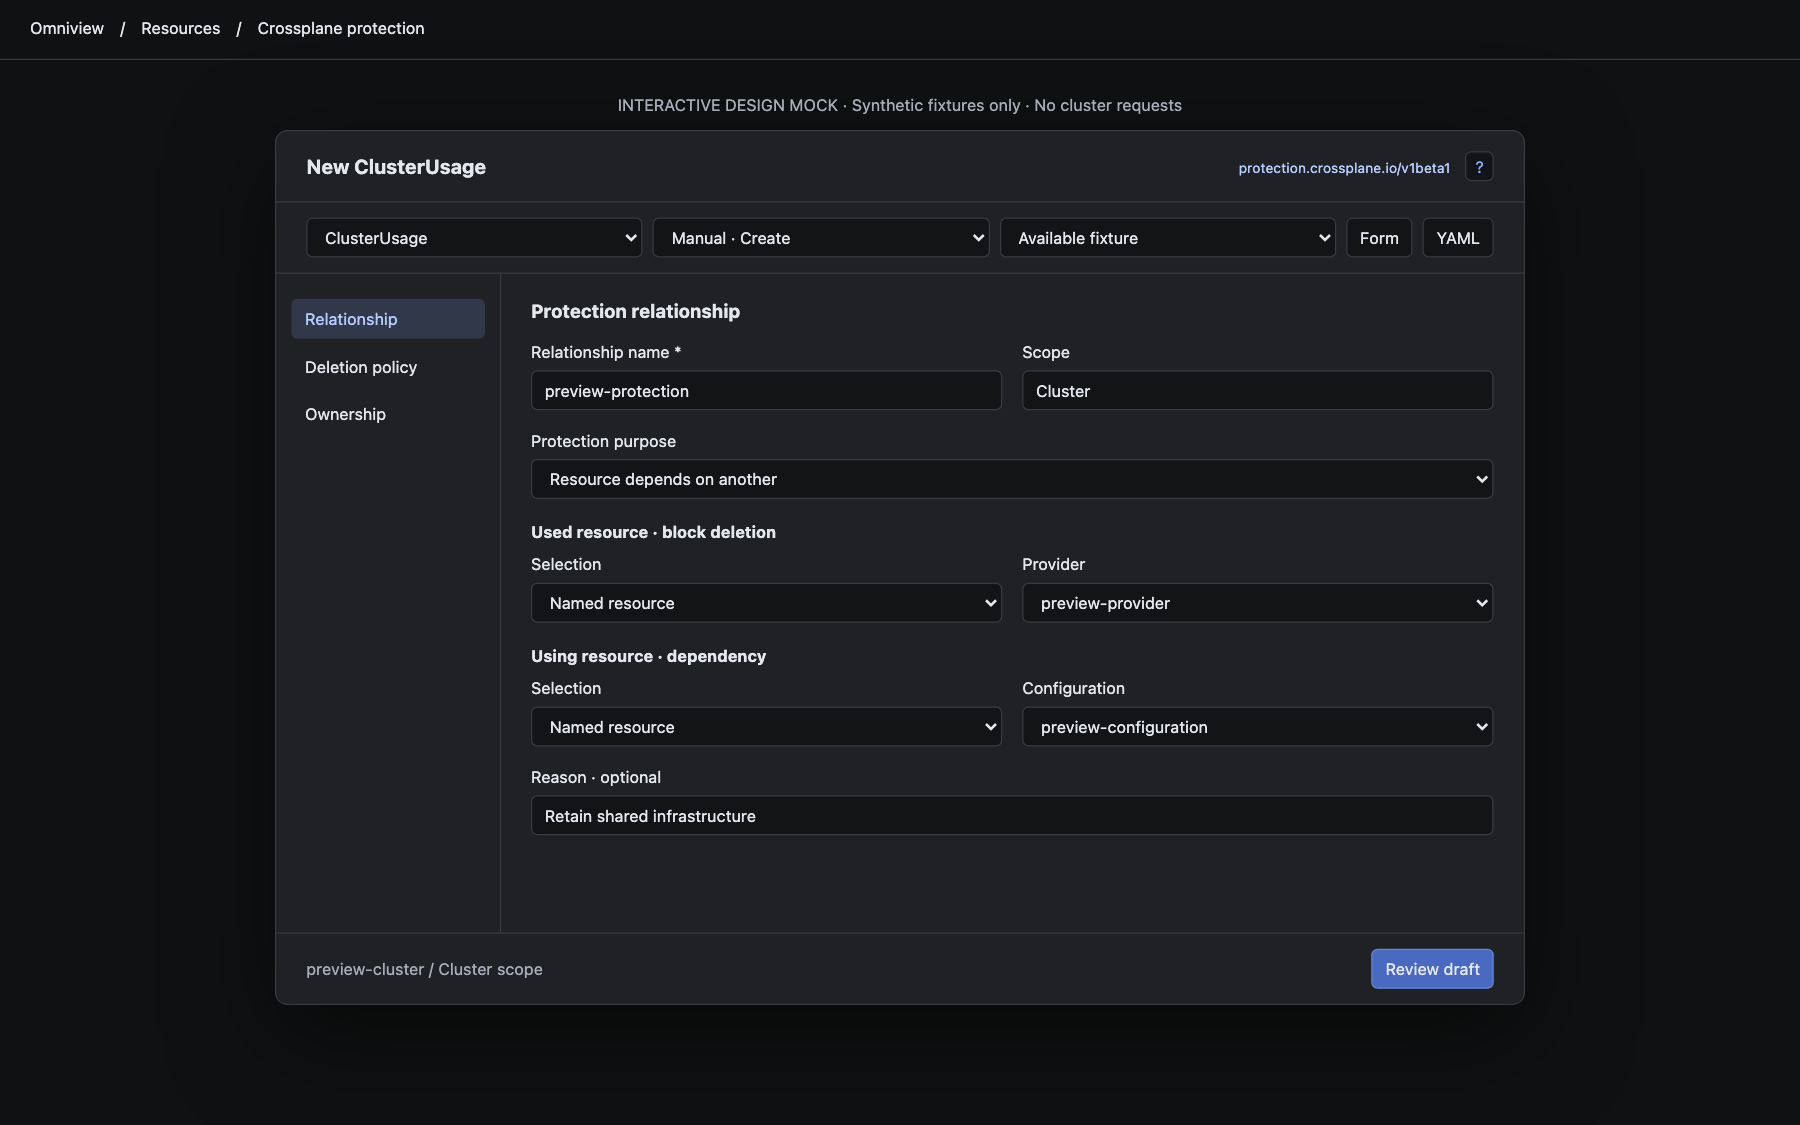
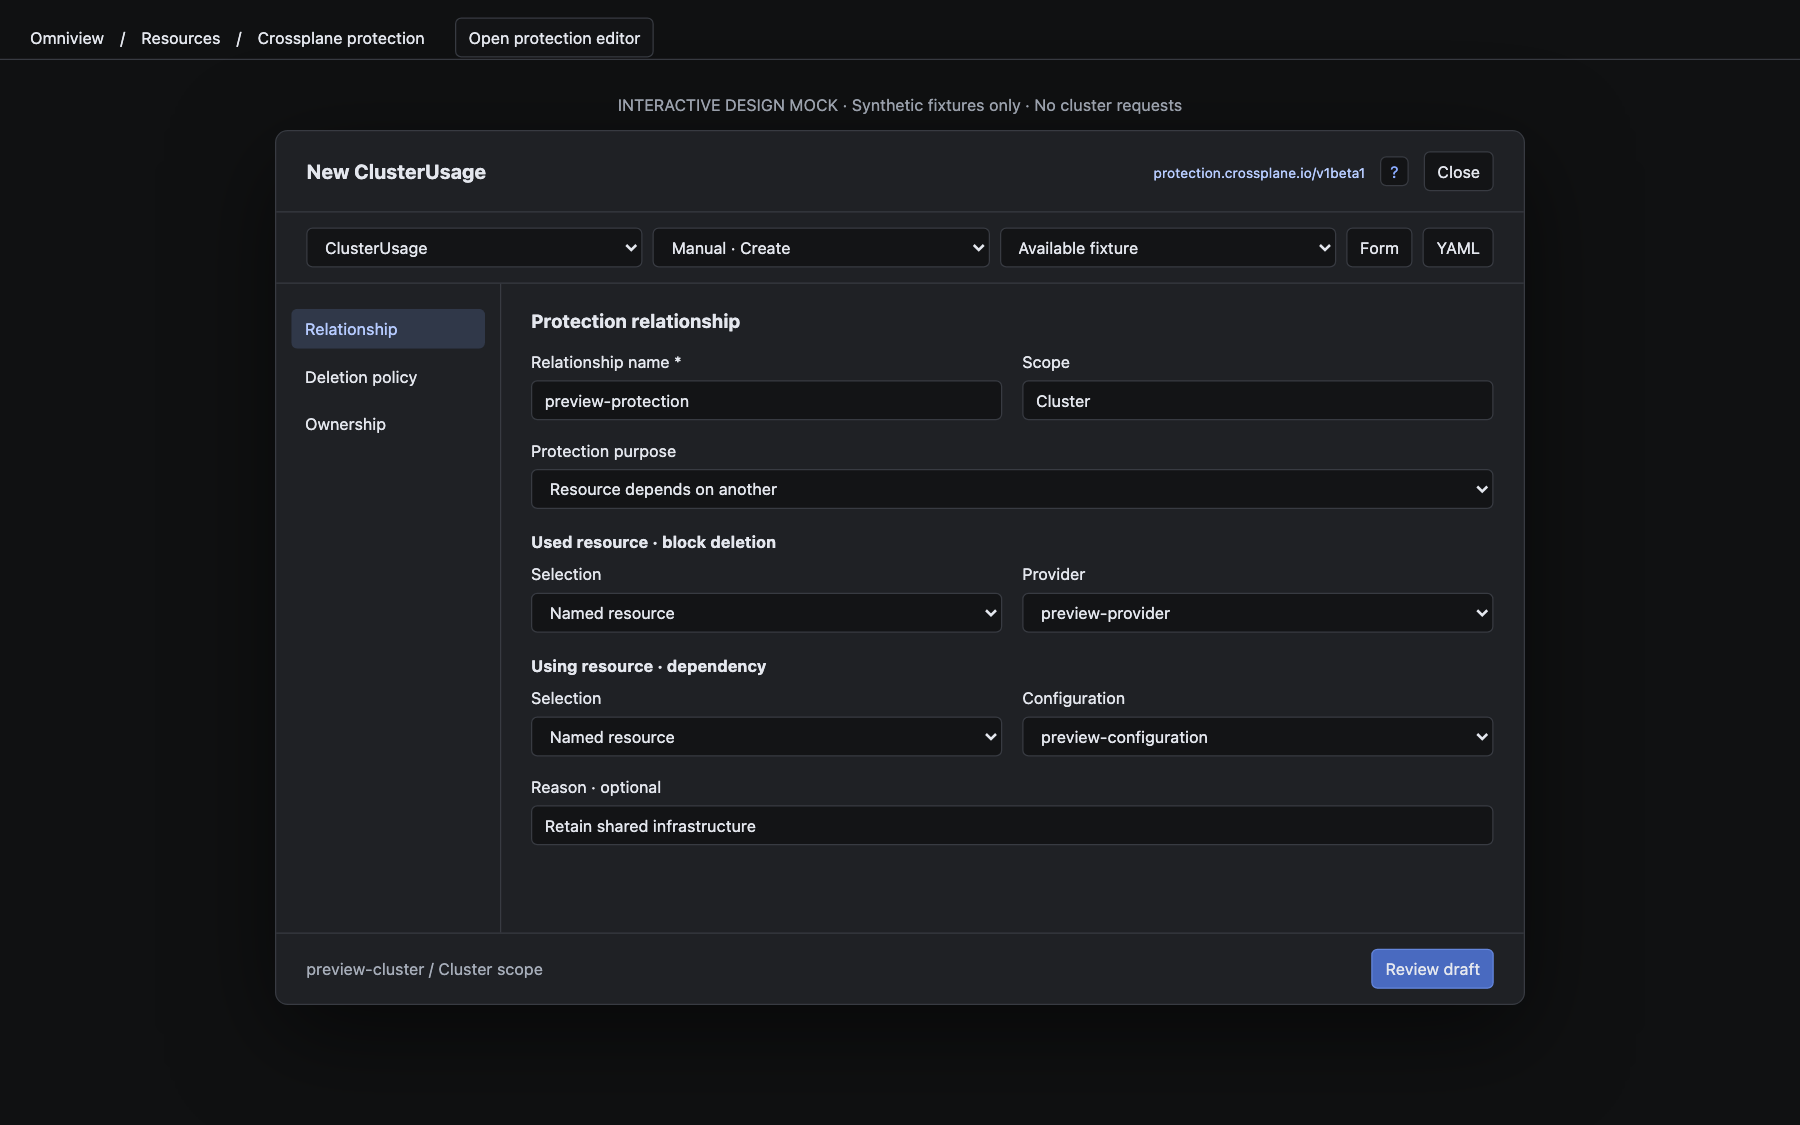
Prove modal keyboard lifecycle and refresh settled captures

diff --git a/index.html b/index.html
@@ -4,4 +4,21 @@ function field(id,label,value,disabled=false){return `<label>${label}<input id="
 function render(){let locked=generated(),editing=$('#intent').value==='edit';$('#title').textContent=(locked?'Inspect ':editing?'Edit ':'New ')+$('#kind').value;$('#destination').textContent='preview-cluster / '+(cluster()?'Cluster scope':d.ns);$('#review').textContent=locked?'Review owner handoff':'Review draft';$('#back').classList.toggle('hidden',!reviewing);document.querySelectorAll('nav button').forEach(b=>b.classList.toggle('active',b.dataset.section===section));let html='';if(reviewing){html=`<h2>Non-mutating ${locked?'owner handoff':'draft review'}</h2><div class="notice">${locked?'Change the owning Composition or controller configuration. No direct edit or delete is offered.':`Protects ${esc(d.of||'selector match')} from deletion. ${d.replay?'Removing this relationship may replay a previously blocked deletion.':'Removing this relationship removes this deletion blocker; other blockers may remain.'}`}</div><div class="graph"><div class="node">${esc(d.by||d.reason||'Manual protection')}</div><b>uses →</b><div class="node">${esc(d.of||'selector match')}<br><span class="badge">Deletion protected · proposed</span></div></div><pre>${esc(locked?'Owner: Composition/preview-stack\nOpen owner in resource inspector (integration boundary only)':source())}</pre><p class="muted">Preview only. No create, update, delete, or retry request is sent.</p>`}else if($('#availability').value==='missing'){html='<h2>Protection API not installed</h2><div class="notice">Install or enable the matching Crossplane API before authoring. Discovery does not prove controller or webhook readiness.</div>'}else if(mode==='yaml'){html=`<h2>${locked?'Inspect source':'Source draft'}</h2><div class="notice">${locked?'Generated source is read-only. Annotation values are omitted from this fixture.':'After manual source edits, Form is unavailable. Raw text stays intact; this mock does not parse YAML.'}</div><textarea id="source" aria-label="YAML source" ${locked?'readonly':''}>${esc(source())}</textarea>`}else if(raw!==null){html='<h2>Form unavailable</h2><div class="notice">Source changed manually. Continue in YAML; exact text remains intact. No conversion or reset occurs.</div>'}else if(section==='relationship'){html=`<h2>${locked?'Observed protection relationship':'Protection relationship'}</h2>${locked?'<div class="notice">Controller-owned · Edit the owner, not this generated relationship.</div>':''}<div class="row">${field('name','Relationship name *',d.name,locked||editing)}${cluster()?'<label>Scope<input value="Cluster" disabled></label>':field('ns','Namespace *',d.ns,locked||editing)}</div><label>Protection purpose<select id="type" ${locked?'disabled':''}><option value="reason" ${d.type==='reason'?'selected':''}>Protect for a reason</option><option value="dependency" ${d.type==='dependency'?'selected':''}>Resource depends on another</option></select></label>${$('#availability').value!=='ready'?`<p class="error" role="status">${({denied:'Reference access denied. Ask for list permission; draft retained.',empty:'No matching resources. Choose another kind in YAML; no resource is created.',unavailable:'Reference lookup unavailable. Retry outside this mock; draft retained.'})[$('#availability').value]}</p>`:''}${picker('of','Used resource · block deletion')}${!cluster()?field('cross','Used namespace · omit for same namespace',d.cross,locked):''}${d.type==='dependency'?picker('by','Using resource · dependency'):''}${field('reason',d.type==='reason'?'Protection reason *':'Reason · optional',d.reason,locked)}<div id="errors" class="error" role="alert"></div>`}else if(section==='lifecycle'){html=`<h2>Deletion policy</h2><label class="check"><input id="replay" type="checkbox" ${d.replay?'checked':''} ${locked?'disabled':''}>Replay a previously blocked deletion</label><div class="notice">${d.replay?'When this relationship is removed, Crossplane may delete the used resource if deletion was previously attempted.':'Deletion replay omitted. Removing this relationship does not itself request deletion of the used resource.'}</div><div class="graph"><div class="node">${esc(d.by||d.reason||'Manual protection')}</div><b>uses →</b><div class="node">${esc(d.of||'Choose used resource')}</div></div>`}else{html=`<h2>Ownership & observed state</h2><div class="notice">${locked?'Generated by Composition/preview-stack. Direct mutation unavailable.':'Manual fixture. Edit requires update permission and revision conflict checks.'}</div><h3>Owner</h3><p>${locked?'Composition / preview-stack':'No controller owner in fixture'}</p><h3>Conditions</h3><p class="muted">Unavailable in fixture. No controller health or enforcement claim.</p><h3>Boundary</h3><p>Identity locked on edit. Status, resolved references, owner references, and controller annotations are not guided-edit fields.</p>`}$('#main').innerHTML=html;bind()}
 function bind(){for(const key of ['name','ns','of','by','reason','type','ofMode','byMode','cross','replay','controller']){let el=$('#'+key);if(!el)continue;el.addEventListener(['SELECT','INPUT'].includes(el.tagName)&&el.type!=='checkbox'?'input':'change',()=>{d[key]=el.type==='checkbox'?el.checked:el.value;if(['type','ofMode','byMode','replay'].includes(key))render();$('#destination').textContent='preview-cluster / '+(cluster()?'Cluster scope':d.ns)})}$('#source')?.addEventListener('input',e=>raw=e.target.value);$('#add')?.addEventListener('click',()=>{d.labels.push({key:'',value:''});render();document.querySelector('[data-key="'+(d.labels.length-1)+'"]').focus()});document.querySelectorAll('[data-key],[data-value]').forEach(e=>e.oninput=()=>d.labels[Number(e.dataset.key??e.dataset.value)][e.dataset.key!==undefined?'key':'value']=e.value);document.querySelectorAll('[data-remove]').forEach(e=>e.onclick=()=>{d.labels.splice(+e.dataset.remove,1);render()})}
 for(const id of ['kind','intent','availability'])$('#'+id).onchange=()=>{reviewing=false;if(id==='intent'&&$('#intent').value!=='create'){Object.assign(d,{name:'preview-protection',of:cluster()?'preview-provider':'preview-settings',by:cluster()?'preview-configuration':'preview-worker',reason:'Retain shared infrastructure',type:'dependency'})}render()};document.querySelectorAll('nav button').forEach(b=>b.onclick=()=>{section=b.dataset.section;reviewing=false;render()});for(const m of ['form','yaml'])$('#'+m).onclick=()=>{mode=m;localStorage.setItem('mock-323-mode',m);reviewing=false;render()};$('#review').onclick=()=>{if($('#availability').value==='missing')return;if(!generated()&&raw===null){let error=!d.name?'Enter a relationship name.':(!d.of&&d.ofMode==='reference')?'Choose the used resource.':d.type==='reason'&&!d.reason?'Enter a protection reason.':d.type==='dependency'&&!d.by&&d.byMode==='reference'?'Choose the using resource.':d.cross&&d.type!=='dependency'?'Cross-namespace protection requires a using resource.':(d.ofMode==='selector'||d.byMode==='selector')&&(!d.labels.length||d.labels.some(r=>!r.key))?'Add a nonempty selector label.':'';if(error){section='relationship';mode='form';render();$('#errors').textContent=error;($('#name').value?$('#of'):$('#name')).focus();return}}reviewing=true;render()};$('#back').onclick=()=>{reviewing=false;render()};let help=$('#help'),hb=$('#helpButton');hb.onclick=()=>help.classList.toggle('hidden');hb.onmouseenter=hb.onfocus=()=>help.classList.remove('hidden');hb.onmouseleave=()=>help.classList.add('hidden');document.onkeydown=e=>{if(e.key==='Escape'&&!help.classList.contains('hidden')){help.classList.add('hidden');hb.focus()}};render();
+</script><script>
+const modal=document.querySelector('.dialog');modal.setAttribute('aria-modal','true');
+const opener=document.createElement('button');opener.id='openEditor';opener.textContent='Open protection editor';opener.style.marginLeft='24px';document.querySelector('header').append(opener);
+const closeButton=document.createElement('button');closeButton.id='closeEditor';closeButton.textContent='Close';document.querySelector('.top').append(closeButton);
+const confirmation=document.createElement('div');confirmation.id='closeConfirmation';confirmation.className='hidden';confirmation.setAttribute('role','alertdialog');confirmation.setAttribute('aria-modal','true');confirmation.setAttribute('aria-labelledby','closeTitle');confirmation.style.cssText='position:absolute;inset:0;background:#101112dc;display:flex;align-items:center;justify-content:center;z-index:8';
+confirmation.innerHTML='<div style="background:var(--panel);border:1px solid var(--line);border-radius:8px;padding:24px;width:360px"><h2 id="closeTitle">Discard unsaved draft?</h2><p>Closing clears this draft. No resource changes were sent.</p><div style="display:flex;gap:12px"><button id="keepEditing">Keep editing</button><button id="discardDraft">Discard draft</button></div></div>';modal.style.position='relative';modal.append(confirmation);
+let dirty=false,closeOrigin=null,helpPinned=false;
+modal.addEventListener('input',e=>{if(e.target.matches('input,textarea,select')&&!['kind','intent','availability'].includes(e.target.id))dirty=true});
+function finishClose(){help.classList.add('hidden');confirmation.classList.add('hidden');modal.classList.add('hidden');dirty=false;raw=null;Object.assign(d,{name:'',ns:'preview',of:'',by:'',reason:'',type:'reason',ofMode:'reference',byMode:'reference',cross:'',replay:false,labels:[],controller:false});reviewing=false;opener.focus()}
+function requestClose(){closeOrigin=document.activeElement;help.classList.add('hidden');if(dirty){confirmation.classList.remove('hidden');$('#keepEditing').focus()}else finishClose()}
+closeButton.onclick=requestClose;opener.onclick=()=>{modal.classList.remove('hidden');render();$('#kind').focus()};
+$('#keepEditing').onclick=()=>{confirmation.classList.add('hidden');(closeOrigin&&modal.contains(closeOrigin)?closeOrigin:closeButton).focus()};
+$('#discardDraft').onclick=finishClose;
+hb.onclick=()=>{helpPinned=!helpPinned;help.classList.toggle('hidden',!helpPinned)};
+hb.onmouseenter=()=>help.classList.remove('hidden');hb.onmouseleave=()=>{if(!helpPinned)help.classList.add('hidden')};hb.onfocus=()=>help.classList.remove('hidden');hb.onblur=()=>{if(!helpPinned)help.classList.add('hidden')};
+document.onkeydown=e=>{if(modal.classList.contains('hidden'))return;if(e.key==='Escape'){e.preventDefault();if(!help.classList.contains('hidden')){helpPinned=false;hb.focus();help.classList.add('hidden');return}if(!confirmation.classList.contains('hidden')){$('#keepEditing').click();return}requestClose();return}if(e.key==='Tab'){const root=confirmation.classList.contains('hidden')?modal:confirmation;const focusable=[...root.querySelectorAll('button,input,select,textarea,[tabindex="0"]')].filter(el=>!el.disabled&&el.getClientRects().length);const first=focusable[0],last=focusable[focusable.length-1];if(e.shiftKey&&(document.activeElement===first||!root.contains(document.activeElement))){e.preventDefault();last.focus()}else if(!e.shiftKey&&(document.activeElement===last||!root.contains(document.activeElement))){e.preventDefault();first.focus()}}};
+$('#kind').focus();
 </script></html>

diff --git a/DESIGN.md b/DESIGN.md
@@ -53,13 +53,15 @@ Faithful isolated HTML composition, not shipped React. 1000×700 frame, 32px con
 
 Reuse approved base-ui Dialog, FormField, Input, Select/Combobox, Checkbox, Table, Button, SegmentedControl, Tooltip/Popover and existing source editor. Dependency graph is adapter-owned read-only composition, not a base-ui graph proposal. No new primitive or shared release required. Crossplane add-on editor provider should own resource rules; no ecosystem hardcoding into Kubernetes plugin. Existing extension-provider contract can select exact GVK and ownership capability.
 
-Reviewed owned prototype with installed `web-design-guidelines` skill and fetched current guideline source. Native controls have labels, keyboard behavior, explicit focus rings, dark native select styling and visible errors. No animation. Production Dialog must supply full focus trap, close confirmation, opener restoration and tooltip placement; this prototype intentionally has no close/navigation workflow. This is a known runtime/accessibility limit, not production-ready dialog code.
+Reviewed owned prototype with installed `web-design-guidelines` skill and fetched current guideline source. Native controls have labels, keyboard behavior, explicit focus rings, dark native select styling and visible errors. No animation. Prototype traps Tab/Shift+Tab inside the modal, dismisses help before modal Escape, asks before discarding dirty drafts, preserves canceled drafts, and restores opener focus after close. Confirmation has its own keyboard trap. Production should reuse base-ui Dialog for equivalent behavior.
 
 ## Evidence
 
-`checks.json` records booleans and screenshot names only. Driver uses actual typing/selects/clicks/keyboard and isolated Chrome profile. 20 original captures plus one ClusterUsage edit capture = 21 screenshots. Main captures use viewport 1440×900, scale 1.25; narrow capture uses 700×780, scale 1.25. All captures visually inspected via contact sheet, with final narrow and cluster edit inspected full size. Initial narrow Chromium resize capture showed compositor tiling; replaced with fresh fixed-size isolated context and GPU disabled. No raw sensitive views were created.
+`checks.json` records booleans and screenshot names only. Driver uses actual typing/selects/clicks/keyboard and isolated Chrome profile. All 24 captures were visually inspected via contact sheet. Main captures use viewport 1440×900, scale 1.25; narrow capture uses 700×780, scale 1.25. Initial captures showed Chromium compositor text/tiling artifacts. All images were recaptured after fonts/layout settled with GPU disabled; no image editing concealed artifacts. Final generated inspection capture was inspected full size. No raw sensitive views were created.
 
 Observed checks: required validation, help Escape, non-mutating review, identity lock, label add/remove, unsupported Form block, exact raw and invalid source retention, generated disabled controls, narrow no horizontal overflow, footer visibility, zero runtime errors, and only mode preference persisted.
+
+Additional keyboard proof: forward/reverse modal wrapping, help-before-modal Escape, dirty-close confirmation, forward/reverse confirmation wrapping, cancel-close exact draft retention, discard-to-opener focus, clean reopen and zero keyboard-run runtime errors. Screenshots 19, 20 and 21 show confirmation, canceled close with retained draft and closed modal with opener focus.
 
 Limits: fixed fixture GVK pairs and one shared selector row draft; no real references, arbitrary GVK combobox, controller resolution, API validation, metadata editor, server conflict flow or live operations. Source fallback preserves these inputs without claiming guided representation. No repository builds/tests/lint/formatters run. Browser evidence proves mock interactions only.
 
